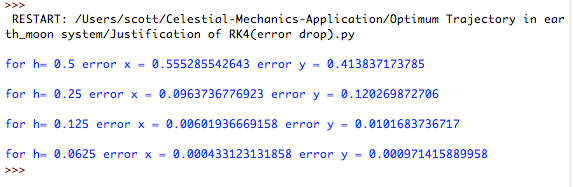
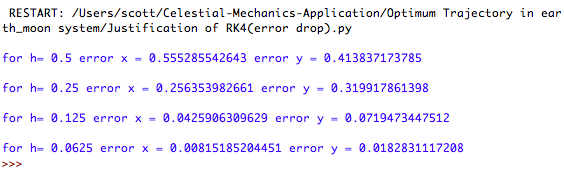
.

diff --git a/Optimum Trajectory in earth_moon system/Justification of RK4(error drop).py b/Optimum Trajectory in earth_moon system/Justification of RK4(error drop).py
@@ -54,7 +54,8 @@ ypoints = []
 r = array([0.2,0.7, 0.0, 0.0],float)
 
 def RK4(r,h,t):
-    C=c**(-log((H/h), 2))
+    #C=c**(-log((H/h), 2))
+    C=1
     R=array([r[0],r[1],r[2],r[3]],float)
     while t< 3.1*h:
         if t ==3*h:
